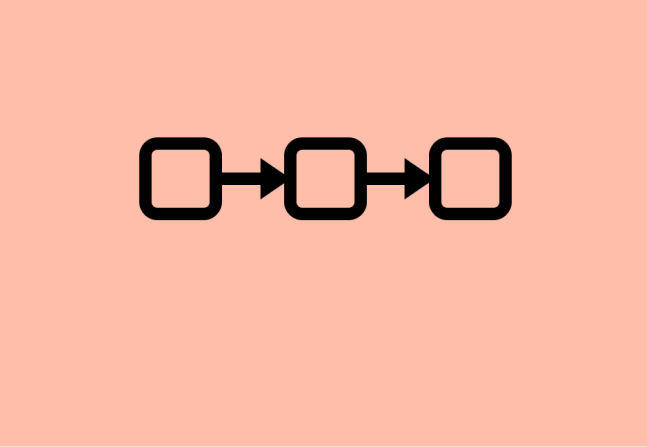
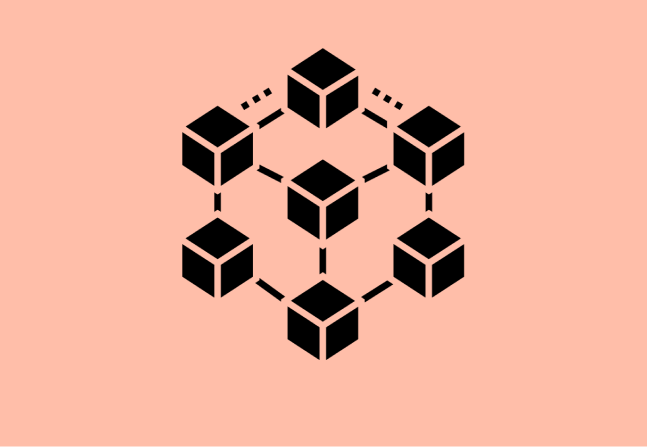
feat: update p2p blockchain project

Changed region(s): [[0.2164, 0.1163, 0.8037, 0.8143]]

diff --git a/assets/js/projects.js b/assets/js/projects.js
@@ -147,7 +147,7 @@ const projects = [
 		demoUrl: null,
 		codeUrl: 'https://github.com/drewcook/go-blockchain',
 		description:
-			'This is a simple implementation of a proof-of-work blockchain written in Go. This is not a peer-to-peer network with concensus, but rather an implementation of a single node that adds new blocks to the chain. It also exposes an API for clients to interact with.',
+			'This is a simple implementation of a proof-of-work blockchain written in Go. This is not a peer-to-peer network with a consensus mechanism, but rather an implementation of a single node that adds new blocks to the chain. It also exposes an API for clients to interact with.',
 		filters: ['web3', 'go', 'api'],
 		frameworks: ['Go'],
 		techStack: ['Go', 'SHA256', 'Gorilla Mux', 'HTTP'],
@@ -159,10 +159,10 @@ const projects = [
 		demoUrl: null,
 		codeUrl: 'https://github.com/drewcook/nodejs-blockchain',
 		description:
-			'This is a simple implementation of a proof-of-work blockchain written in Nodejs. This is not a peer-to-peer network with concensus, but rather an implementation of a single node that adds new blocks to the chain. It also includes a wallet implementation for signing transactions as well as an API for clients to interact with.',
+			'This is a simple implementation of a proof-of-work blockchain written in Nodejs. This implements a peer-to-peer network with WebSockets where a node can add new blocks to the chain. There is a rough implementation of consensus with chain selection. It also includes a wallet implementation for signing transactions as well as an API for clients to interact with.',
 		filters: ['web3', 'api', 'node'],
 		frameworks: ['Node / Express / Koa'],
-		techStack: ['TypeScript', 'NodeJS', 'Express', 'WebSockets'],
+		techStack: ['TypeScript', 'NodeJS', 'Express', 'WebSockets', 'P2P'],
 	},
 	{
 		title: 'Battleship (SOLID OOP)',
